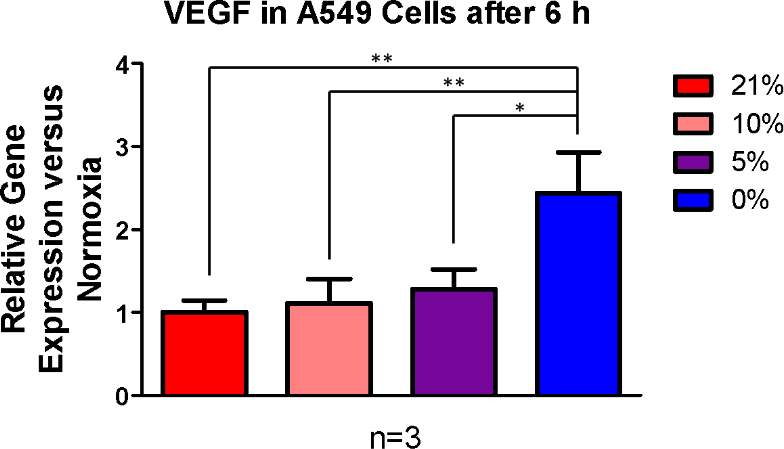
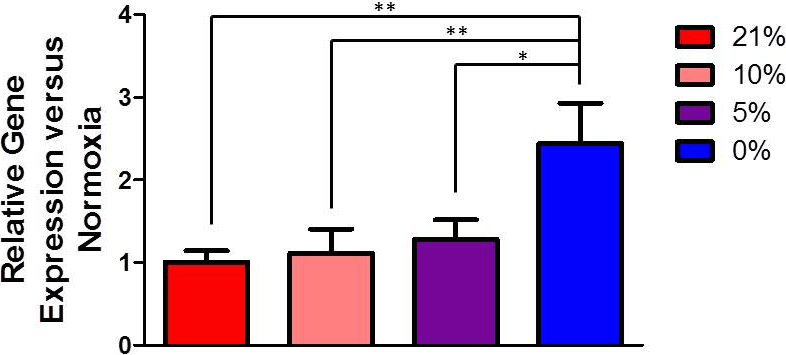
updated figure 2 and captions, final edits to manuscirpt

Changed region(s): [[0.0, 0.0, 0.8265, 1.0], [0.8571, 0.062, 1.0, 0.4958]]

diff --git a/publishing/latex/paper.tex b/publishing/latex/paper.tex
@@ -204,7 +204,7 @@ On the other hand, 3D CAD printing allows for unambiguous specifications and nea
 Dissemination and distributed production is also vastly simplified due to easy sharing of the design as a CAD file.
 Due to these inherent advantages 3D printing has emerged as a method for directly printing complete microfluidic devices \cite{Au2014,Comina2014, Chen2014,Shallan2014,Bhargava2014}. 
 Many prototypical microfluidic device features have been recreated with 3D printing as a proof of concept for this new fabrication technique \cite{ Au2014, Shallan2014} including modular re-configurable units\cite{Yuen2008,Bhargava2014,Lee2014}.
-3D printed devices have been used for neuroengineering applications\cite{Tek2008}, inexpensive and high-throughput reactionware,\cite{Kitson2012,Symes2012, Kitson2014}, culturing and imaging arrays of seedlings\cite{Busch2012}, measuring dopamine and ATP levels in biological samples with an integrated electrode\cite{Erkal2014}, or plate reader\cite{Chen2014}, and a bacteria separation flow assay\cite{Lee2014a,Lee2015}. 
+3D printed devices have been used for neuroengineering applications\cite{Tek2008}, inexpensive and high-throughput reactionware,\cite{Kitson2012,Symes2012,Kitson2013,Kitson2014}, culturing and imaging arrays of seedlings\cite{Busch2012}, measuring dopamine and ATP levels in biological samples with an integrated electrode\cite{Erkal2014}, or plate reader\cite{Chen2014}, and a bacteria separation flow assay\cite{Lee2014a,Lee2015}. 
 Other 3D-printed fluidic devices include pneumatic valves\cite{Au2015} a custom NMR cell\cite{Causier2015}, a rapid reconstitution package for lyophilized drugs\cite{Chi2014} and flow plates for a water electrolysis system\cite{Chisholm2014}.
 
 Printing is currently limited in choice of substrate compatible with the 3D printing process.
@@ -322,7 +322,7 @@ Cell culture experiments were repeated three independent times. Data are express
 
 % Results and Discussion can be combined.
 \section*{Results}
-\subsection*{Oxygen Control}
+\subsection*{Oxygen control}
 Oxygen control in the 24-well insert device was quantified with a platinum-based (PtOEPK) planar oxygen sensor placed at the bottom of the well, as shown in Fig.~\ref{fig2}.
 The device reaches steady state in 30 minutes and can then hold the oxygen level near 0\% \ce{O2} indefinitely, while 95\% \ce{N2}, 5\% \ce{CO2} is pumped through the device. 
 A different gas condition can be used in each separate iteration of the 6-well unit allowing 6 technical replicates of up to 4 different gas conditions in one 24-well plate (Fig.~\ref{fig2}). There was little variation in the oxygen levels measured in each of the 6 wells controlled by a single inlet, demonstrating the distribution network worked effectively.

diff --git a/publishing/latex/figures.tex b/publishing/latex/figures.tex
@@ -17,13 +17,13 @@
 \caption{
 {\bf Design of 24-well Insert Device.}
 (A) Rendering of whole 3D printed part.
-An inlet and outlet barb allows perfusion of gas to control 6 channels.
+An inlet and outlet barb allows perfusion of gas to control 6 wells.
 (B) At the bottom of each pillar gas entering from the outer channel flows along the PDMS membrane (blue), which is supported by micropillars, and exhausts via the inner pipe.
 Diffusion occurs rapidly through the PDMS membrane to the cell culture spaced 500 $\mu$m away at the bottom of the well.
 (C) Cross-section demonstrating how the microfluidic distribution network and double pipes are connected. 
 The two adjacent mirrored distribution networks are spaced 1 mm apart along the z-axis allowing them to overlap and enter the separate vertical pipes.
 The arrows indicate the flow direction.
-The incoming gas enters enters the outer pipe on its way to the bottom of the well and returns through the inner pipe.
+The incoming gas enters the outer pipe on its way to the bottom of the well and returns through the inner pipe.
 (D) Photo of the device with dyed channels in a 24-well plate.
 (E) Photo of the device from the bottom with four independent channel networks.
 (F) Photo of the printed distribution networks.
@@ -32,7 +32,7 @@ The incoming gas enters enters the outer pipe on its way to the bottom of the we
 \end{figure}
 
 \begin{figure}[H]
-\includegraphics[scale=0.15]{Fig2.png}
+\includegraphics[scale=0.2]{Fig2.png}
 \caption{
 {\bf Oxygen Characterization.} 
 (A) Time course data of oxygen being evacuated from the culture area as 0\% oxygen gas is perfused through the device.
@@ -45,9 +45,9 @@ Mean N=3 error bars not included.
 \end{figure}
 
 \begin{figure}[H]
-\includegraphics[scale=0.4]{Fig3.png}
+\includegraphics[scale=0.6]{Fig3.png}
 \caption{
-{\bf PCR Data.}  VEGF expression in A549 cells after exposure to different oxygen conditions.
+{\bf PCR Data.}  VEGFA expression in A549 cells after exposure to different oxygen conditions set-up by the insert device. Data are expressed as mean $\pm$ SD, N=3.
 }
 \label{figure3}
 \end{figure}
